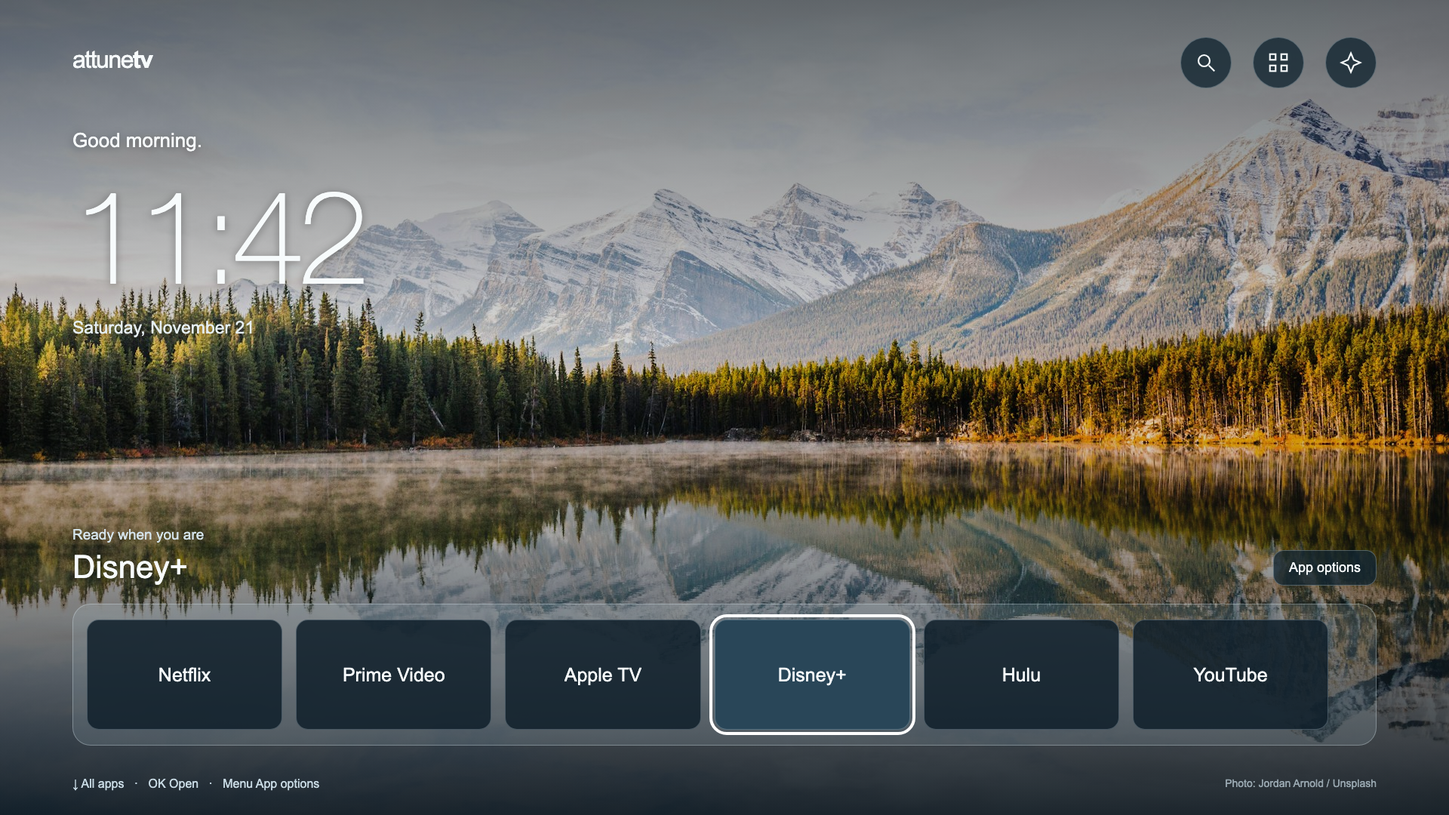
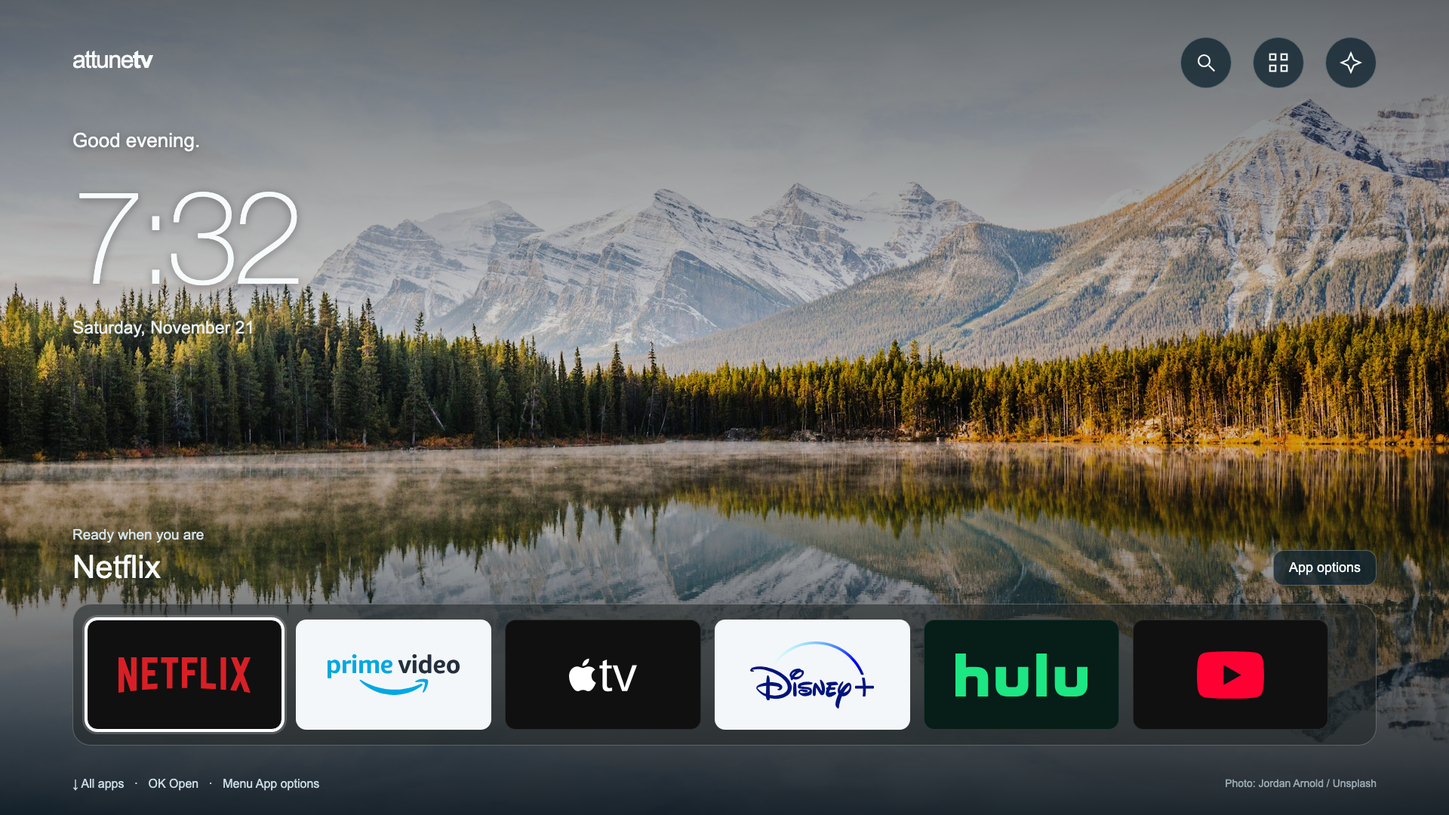
Polish Samsung app artwork and rounded tile focus

Changed region(s): [[0.0312, 0.6722, 0.9688, 0.9167], [0.0625, 0.2139, 0.25, 0.3667], [0.0938, 0.1528, 0.1562, 0.1833]]

diff --git a/samsung/web/home.css b/samsung/web/home.css
@@ -1,1 +1,40 @@
 *{box-sizing:border-box}html,body{margin:0;width:100%;height:100%;overflow:hidden}body{background:#142a35;color:#f7fbfc;font:24px Arial,sans-serif}[hidden]{display:none!important}.landscape,.shade{position:fixed;inset:0;top:0;left:0;width:100%;height:100%;pointer-events:none}.landscape{background:url('assets/alpine-lake.jpg') center center/cover no-repeat}.shade{background:linear-gradient(180deg,rgba(6,18,27,.62),rgba(6,18,27,.08) 48%,rgba(6,18,27,.9))}button,a,input{-webkit-tap-highlight-color:transparent}button,a{font:inherit;color:inherit}button,a.round{border:1px solid rgba(232,247,255,.28);border-radius:14px;background:rgba(17,36,47,.78);padding:16px 25px;text-decoration:none;cursor:pointer}button:disabled{opacity:.4;cursor:default}button:focus,a:focus,input:focus{outline:4px solid #fff;outline-offset:5px}button:focus,a:focus{background:#35566b}#home{position:relative;height:100%;padding:4.5vh 5vw 3vh}header{display:flex;justify-content:space-between;align-items:flex-start}.brand{font-size:32px;letter-spacing:-1.5px;padding-top:12px}.brand span{font-weight:bold}nav{display:flex}nav .round{position:relative;display:flex;align-items:center;justify-content:center;border-radius:50%;width:68px;height:68px;margin-left:28px;padding:18px}svg{width:30px;height:30px;fill:none;stroke:currentColor;stroke-width:1.7}.round span{position:absolute;top:82px;left:-20px;right:-20px;text-align:center;font-size:18px;opacity:0}.round:focus span,.round:hover span{opacity:1}.welcome{margin-top:5vh;text-shadow:0 2px 12px rgba(0,0,0,.35)}.welcome p{margin:0;font-size:26px}#clock{font-family:'Helvetica Neue',Arial,sans-serif;font-weight:200;font-size:9vw;line-height:1.2;letter-spacing:-.5vw;margin:6px 0}#date{font-size:23px;color:#e5eef2}.favorites{position:absolute;bottom:8.5vh;left:5vw;right:5vw}.selection{display:flex;align-items:flex-end;justify-content:space-between;margin:0 0 24px}.selection p{font-size:19px;color:#d4e3ea;margin:0 0 8px}.selection h1{font-size:42px;font-weight:400;margin:0;max-width:65vw;white-space:nowrap;overflow:hidden;text-overflow:ellipsis}.quiet{font-size:18px;padding:12px 20px}.dock{display:flex;overflow-x:auto;overflow-y:hidden;padding:20px 18px;background:rgba(182,208,220,.16);border:1px solid rgba(235,247,255,.3);border-radius:24px;min-height:145px}.tile{flex:0 0 13.5vw;width:13.5vw;height:7.59375vw;position:relative;padding:12px;margin-right:18px;border-radius:16px;background:rgba(15,30,42,.86);border:1px solid rgba(220,238,247,.25);overflow:hidden;display:flex;flex-direction:column;align-items:center;justify-content:center}.tile:last-child{margin-right:0}.tile:focus{outline:4px solid white;outline-offset:3px;background:#294658}.tile img{width:100%;height:100%;object-fit:contain;display:block;border-radius:8px}.tile .fallback{font-size:25px;text-align:center;line-height:1.2;max-width:100%;overflow:hidden;text-overflow:ellipsis}.tile .pin{position:absolute;right:9px;top:6px;color:#f7dc9b;font-size:18px;text-shadow:0 1px 5px #000}.tile:focus .pin{color:white}.dock:empty{display:none}footer{position:absolute;bottom:3vh;left:5vw;right:5vw;display:flex;justify-content:space-between;font-size:16px;color:#c8dae4}.credit{opacity:.7;font-size:14px}#empty{padding:20px 26px;background:rgba(15,30,42,.82);border-radius:20px}#empty p{margin:0 0 12px;max-width:65ch;font-size:23px}#retry{font-size:20px}.panel{position:fixed;top:0;left:0;width:100%;height:100%;padding:5vh 5vw;background:rgba(9,23,35,.97)}.panel-head{display:flex;justify-content:space-between;align-items:center;margin-bottom:22px}h2{font-weight:400;font-size:40px;margin:0 0 18px}.panel-head h2{margin:0}.panel-head button{font-size:20px}.search-label{display:block;font-size:18px;margin-bottom:8px}input{font:inherit;color:#fff;background:#203c50;border:1px solid #7b97a9;border-radius:12px;padding:14px 18px;width:100%}input::placeholder{color:#b5c8d3}#apps-status{font-size:18px;color:#becfd9;margin:16px 0}.grid{display:flex;align-content:flex-start;flex-wrap:wrap;overflow-y:auto;height:57vh;padding:12px}.grid .tile{width:calc(20% - 20px);flex-basis:calc(20% - 20px);height:9.3vw;margin:0 20px 26px 0}.grid .tile .fallback{font-size:23px}.panel-hint{font-size:17px;color:#a8c1d0}.scrim{position:fixed;top:0;left:0;width:100%;height:100%;background:rgba(2,12,22,.8);display:flex;align-items:center;justify-content:center}.glass-menu{width:580px;max-height:90vh;overflow:auto;padding:32px;background:#142b3d;border:1px solid #7697aa;border-radius:24px;box-shadow:0 18px 55px rgba(0,0,0,.3)}.glass-menu h2{font-size:32px;overflow-wrap:break-word}.glass-menu p{font-size:22px;line-height:1.5;color:#cfdee6}.glass-menu button{display:block;width:100%;text-align:left;margin:14px 0;padding:15px 22px;background:#203d51}.glass-menu button:focus{background:#41667d}#notice{position:fixed;bottom:3vh;left:5vw;right:5vw;border:1px solid #b8d3e4;border-radius:12px;background:#1b3548;padding:18px 26px;font-size:22px;z-index:5}@media(max-width:1100px){body{font-size:18px}.brand{font-size:25px}nav .round{width:50px;height:50px;padding:12px;margin-left:22px}.round span{top:62px;font-size:14px}.welcome{margin-top:4vh}.welcome p{font-size:21px}#date{font-size:18px}.selection h1{font-size:30px}.selection{margin-bottom:16px}.selection p,.quiet{font-size:15px}.dock{min-height:90px;padding:14px}.tile{margin-right:14px;padding:9px}.tile .fallback{font-size:17px}.grid .tile .fallback{font-size:17px}footer,.credit{font-size:12px}.panel{padding:4vh 5vw}.panel-head{margin-bottom:12px}h2{font-size:30px}.panel-head button{font-size:16px}.search-label{font-size:14px}input{padding:10px 14px}#apps-status{margin:10px 0;font-size:14px}.grid{height:53vh}.panel-hint{font-size:14px}}@media(max-width:600px){.welcome{margin-top:8vh}#clock{font-size:23vw}.favorites{bottom:12vh}.tile{width:42vw;flex-basis:42vw;height:24vw}.grid .tile{width:calc(50% - 20px);flex-basis:calc(50% - 20px);height:24vw}.credit{display:none}nav .round{margin-left:16px}.selection h1{max-width:55vw;font-size:25px}.selection p{font-size:13px}.quiet{max-width:110px}.brand{font-size:20px}.glass-menu{width:90%}footer{font-size:11px}.welcome p{font-size:20px}}
+
+/* Artwork pass: neutral cinema surfaces, consistent banners and rounded focus.
+   Explicit dimensions and shadow rings work on Tizen 4 (no aspect-ratio needed). */
+.tile{padding:0;border:0;background:transparent;border-radius:14px;overflow:visible;display:block;text-align:left}
+.tile:focus{outline:none;background:transparent}
+.tile-art{position:relative;display:flex;align-items:center;justify-content:center;width:100%;height:100%;background:#202124;border-radius:14px;overflow:hidden;border:1px solid rgba(255,255,255,.12)}
+.tile:focus .tile-art{box-shadow:0 0 0 3px #fff,0 0 0 6px rgba(255,255,255,.18);border-color:#fff}
+.tile .tile-art img{width:100%;height:100%;object-fit:contain;border-radius:0}
+.tile .brand-art img{width:68%;height:62%}
+.tile .native-icon img{width:100%;height:90%}
+.tile .fallback{padding:18px;color:#f5f5f5}
+.tile-caption{display:none}
+.dock{background:rgba(35,39,40,.58);border-color:rgba(255,255,255,.24)}
+.panel{background:#171819;padding:4.5vh 5vw}
+.panel:before{content:'';position:absolute;top:0;left:0;width:100%;height:100%;background:linear-gradient(rgba(18,19,20,.94),rgba(18,19,20,.98)),url('assets/alpine-lake.jpg') center/cover no-repeat;pointer-events:none}
+.panel>*{position:relative}
+.panel-head{margin-bottom:24px}.panel-head h2{font-size:42px}
+.panel button:not(.tile){background:#282b2c;border-color:#515556}
+.panel input{background:#242728;border-color:#565c5d}
+.panel input::placeholder{color:#b8bdbf}
+.grid{height:59vh;padding:12px 10px;align-content:flex-start}
+.grid .tile{width:calc(20% - 20px);flex-basis:calc(20% - 20px);height:auto;margin-bottom:26px;border-radius:14px}
+.grid .tile-art{height:8.75vw}
+.grid .tile-caption{display:block;font-size:21px;line-height:1.3;color:#c9cccd;margin:13px 2px 0;white-space:nowrap;overflow:hidden;text-overflow:ellipsis}
+.grid .tile:focus .tile-caption{color:#fff}
+.tile .pin{background:#252728;color:#fff;border-radius:50%;width:24px;height:24px;text-align:center;line-height:24px;font-size:15px;text-shadow:none}
+#apps-status,.panel-hint{color:#b5babb}
+.glass-menu{background:#202324;border-color:#606667}.glass-menu button{background:#303536}
+.glass-menu button:focus{background:#4a5153}
+@media(max-width:1100px){.panel-head h2{font-size:30px}.grid{height:55vh}.grid .tile-caption{font-size:15px;margin-top:9px}.grid .tile{margin-bottom:20px}.panel-head{margin-bottom:14px}}
+@media(max-width:600px){.grid .tile{width:calc(50% - 20px);flex-basis:calc(50% - 20px)}.grid .tile-art{height:22vw}}
+/* Old Samsung WebKit shrinks percentage-width flex children inside <button>.
+   Anchor artwork/captions explicitly so every tile retains the same geometry. */
+.tile-art{position:absolute;left:0;top:0}
+.grid .tile{height:calc(10.125vw + 27px)}
+.grid .tile-art{height:calc(10.125vw - 13.5px)}
+.grid .tile-caption{position:absolute;left:0;right:0;top:calc(10.125vw - 13.5px)}
+@media(max-width:1100px){.grid .tile{height:calc(10.125vw + 18px)}}
+@media(max-width:600px){.grid .tile-art{height:calc(25.3125vw - 16.875px)}.grid .tile-caption{top:calc(25.3125vw - 16.875px)}.grid .tile{height:calc(25.3125vw + 15px)}}

diff --git a/samsung/web/home.js b/samsung/web/home.js
@@ -17,14 +17,56 @@
     text('date', now.toLocaleDateString(undefined, { weekday: 'long', month: 'long', day: 'numeric' }));
   }
   function choose(app) { selected = app; text('selected-name', app.name); text('selected-kind', favorites.indexOf(app.id) >= 0 ? 'Ready when you are' : 'On your TV'); el('options-button').disabled = false; el('grid-options').disabled = false; }
+  // Exact aliases only: artwork never changes the OS app ID used to launch.
+  var brands = {
+    'netflix': ['netflix', '#101010'],
+    'prime video': ['prime-video', '#f4f7f9'],
+    'amazon prime video': ['prime-video', '#f4f7f9'],
+    'apple tv': ['apple-tv', '#101010'],
+    'disney+': ['disney-plus', '#f4f7f9'],
+    'hulu': ['hulu', '#071d17'],
+    'youtube': ['youtube', '#101010']
+  };
+  var artworkColors = {};
+  function tint(art, icon, path) {
+    // Match a solid icon's edge instead of putting every square on a blue mat.
+    // Some Tizen firmware taints local canvases; neutral charcoal is the fallback.
+    try {
+      var color = artworkColors[path];
+      if (!color) {
+        var canvas = document.createElement('canvas'); canvas.width = canvas.height = 8;
+        var ctx = canvas.getContext('2d'); ctx.drawImage(icon, 0, 0, 8, 8);
+        var data = ctx.getImageData(0, 0, 8, 8).data, colors = [];
+        [0, 7, 56, 63].forEach(function (n) { if (data[n * 4 + 3] > 240) colors.push([data[n * 4], data[n * 4 + 1], data[n * 4 + 2]]); });
+        if (colors.length === 4 && colors.every(function (c) { return Math.abs(c[0] - colors[0][0]) + Math.abs(c[1] - colors[0][1]) + Math.abs(c[2] - colors[0][2]) < 70; })) color = 'rgb(' + colors[0].join(',') + ')';
+        else color = '#202124';
+        artworkColors[path] = color;
+      }
+      art.style.backgroundColor = color;
+    } catch (e) { /* OS icon remains visible even without color sampling. */ }
+  }
   function tile(app, inGrid) {
     var button = document.createElement('button'); button.className = 'tile'; button.setAttribute('data-app-id', app.id); button.setAttribute('aria-label', app.name);
-    var label = document.createElement('span'); label.className = 'fallback'; label.textContent = app.name; button.appendChild(label);
-    // Only local artwork from the OS inventory; no arbitrary network image requests.
-    if (app.iconPath && /^(file:\/\/|\/|wgt-private\/)/.test(app.iconPath) && app.iconPath.indexOf('//') !== 0) {
-      var icon = document.createElement('img'); icon.alt = ''; icon.onload = function () { label.hidden = true; }; icon.onerror = function () { icon.hidden = true; label.hidden = false; }; icon.src = app.iconPath; button.insertBefore(icon, label);
+    var art = document.createElement('span'); art.className = 'tile-art'; button.appendChild(art);
+    var label = document.createElement('span'); label.className = 'fallback'; label.textContent = app.name; art.appendChild(label);
+    var caption = document.createElement('span'); caption.className = 'tile-caption'; caption.textContent = app.name; caption.setAttribute('aria-hidden', 'true'); button.appendChild(caption);
+    var brand = brands[app.name.toLocaleLowerCase().trim()];
+    var nativePath = app.iconPath && /^(file:\/\/|\/|wgt-private\/)/.test(app.iconPath) && app.iconPath.indexOf('//') !== 0 ? app.iconPath : '';
+    if (brand || nativePath) {
+      var icon = document.createElement('img'); icon.alt = '';
+      icon.onload = function () {
+        label.hidden = true;
+        if (!brand) {
+          art.className = 'tile-art ' + (icon.naturalWidth / icon.naturalHeight > 1.45 ? 'native-banner' : 'native-icon');
+          tint(art, icon, nativePath);
+        }
+      };
+      icon.onerror = function () { icon.hidden = true; label.hidden = false; };
+      if (brand) { art.className = 'tile-art brand-art'; art.style.backgroundColor = brand[1]; icon.src = 'assets/logos/' + brand[0] + '.svg'; }
+      else icon.src = nativePath;
+      art.insertBefore(icon, label);
     }
-    if (inGrid && favorites.indexOf(app.id) >= 0) { var pin = document.createElement('span'); pin.className = 'pin'; pin.textContent = '★'; pin.setAttribute('aria-hidden', 'true'); button.appendChild(pin); }
+    if (inGrid && favorites.indexOf(app.id) >= 0) { var pin = document.createElement('span'); pin.className = 'pin'; pin.textContent = '★'; pin.setAttribute('aria-hidden', 'true'); art.appendChild(pin); }
     button.onfocus = function () { choose(app); if (inGrid) button.scrollIntoView({ block: 'nearest', inline: 'nearest' }); else { var dock = el('dock'); if (button.offsetLeft < dock.scrollLeft) dock.scrollLeft = button.offsetLeft; if (button.offsetLeft + button.offsetWidth > dock.scrollLeft + dock.clientWidth) dock.scrollLeft = button.offsetLeft + button.offsetWidth - dock.clientWidth + 18; } };
     button.onclick = function () { choose(app); launch(app); }; button.oncontextmenu = function (event) { event.preventDefault(); choose(app); menu(); }; return button;
   }

diff --git a/samsung/web/home.html b/samsung/web/home.html
@@ -13,7 +13,7 @@
     <section class="favorites" aria-label="Favorites"><div class="selection"><div><p id="selected-kind">Your evening starts here</p><h1 id="selected-name">Make yourself at home.</h1></div><button id="options-button" class="quiet" disabled>App options</button></div><div id="dock" class="dock"></div><div id="empty" hidden><p id="empty-copy">Finding your apps…</p><button id="retry">Try again</button></div></section>
     <footer><span>↓ All apps &nbsp; · &nbsp; OK Open &nbsp; · &nbsp; Menu App options</span><span class="credit">Photo: Jordan Arnold / Unsplash</span></footer>
   </main>
-  <section id="apps-panel" class="panel" hidden aria-label="All apps"><div class="panel-head"><h2>Your apps</h2><div><button id="grid-options" disabled>App options</button> <button id="close-apps">Back to Home</button></div></div><label class="search-label" for="app-search">Search installed apps</label><input id="app-search" type="search" placeholder="Find something to watch" autocomplete="off"><p id="apps-status" role="status"></p><div id="grid" class="grid"></div><p class="panel-hint">OK opens an app. Menu opens its options. Favorites stay on this TV.</p></section>
+  <section id="apps-panel" class="panel" hidden aria-label="All apps"><div class="panel-head"><h2>Your apps</h2><div><button id="grid-options" disabled>App options</button> <button id="close-apps">Back to Home</button></div></div><label class="search-label" for="app-search">Search installed apps</label><input id="app-search" type="search" placeholder="Search your apps" autocomplete="off"><p id="apps-status" role="status"></p><div id="grid" class="grid"></div><p class="panel-hint">OK opens an app. Menu opens its options. Favorites stay on this TV.</p></section>
   <div id="menu" class="scrim" hidden role="dialog" aria-modal="true" aria-labelledby="menu-title"><section class="glass-menu"><h2 id="menu-title">App options</h2><button id="menu-open">Open</button><button id="menu-pin">Pin to Home</button><button id="menu-left">Move left</button><button id="menu-right">Move right</button><button id="menu-close">Close</button></section></div>
   <div id="exit" class="scrim" hidden role="dialog" aria-modal="true" aria-labelledby="exit-title"><section class="glass-menu"><h2 id="exit-title">Leave AttuneTV?</h2><p>The remote’s Home button opens Samsung Smart Hub. Add AttuneTV to its Home row to come back quickly.</p><button id="stay">Stay here</button><button id="exit-confirm">Leave</button></section></div>
   <div id="notice" role="alert" hidden></div>

diff --git a/scripts/package-downloads.py b/scripts/package-downloads.py
@@ -36,7 +36,7 @@ def package(output, samsung_dist):
     samsung = {'version': version, 'applicationId': 'AttuneTV01.Companion', 'package': target.name,
                'sha256': digest(target), 'commit': info['commit'], 'serviceOrigin': ORIGIN,
                'signed': False, 'requires': 'Samsung TV certificate with your device DUID and installation permission',
-               'deviceAcceptance': 'Samsung Home 0.2.0 installation, local app inventory, photo/icon loading and grid geometry checked on QN65Q65FN; visual and per-app launch acceptance remain separately documented'}
+               'deviceAcceptance': 'Samsung Home 0.2.1 installed on QN65Q65FN; bundled dock marks, tile widths and scrolling checked on Tizen 4. User visual and per-app launch acceptance remain separate'}
     (output / 'samsung-release-info.json').write_text(json.dumps(samsung, indent=2) + '\n')
     # Inside the setup ZIP, the manifest covers bundled payloads, not the ZIP itself.
     files = ['AttuneTV.apk', target.name, 'release-info.json', 'samsung-release-info.json']

diff --git a/README.md b/README.md
@@ -88,7 +88,7 @@ Open AttuneTV to a photo, clock and your installed apps. Keep favorites in the d
 
 ![Samsung Home layout with landscape, clock, round shortcuts and favorites dock](docs/images/home-samsung-browser.png)
 
-*Browser capture with fixture app names; actual TV icon loading and layout geometry were checked separately. Samsung 0.2.0 is an in-app Home, not a system Home-button replacement. [Device checks](docs/device-checks/samsung-qn65q65fn.md).*
+*Browser capture with fixture app names; actual TV icon loading and layout geometry were checked separately. Samsung 0.2.1 is an in-app Home, not a system Home-button replacement. [Device checks](docs/device-checks/samsung-qn65q65fn.md).*
 
 ## Why AttuneTV?
 
@@ -114,7 +114,7 @@ Open AttuneTV to a photo, clock and your installed apps. Keep favorites in the d
 
 After native installation, you can shut down the setup computer. The launcher runs on the TV; the companion uses the hosted service.
 
-**Download the current preview:** [Android APK 0.5.2](https://github.com/thellis954/attunetv/releases/latest/download/AttuneTV.apk) · [Samsung 0.2.0 unsigned WGT](https://github.com/thellis954/attunetv/releases/latest/download/AttuneTV-Samsung-UNSIGNED.wgt) · [Guided setup ZIP](https://github.com/thellis954/attunetv/releases/latest/download/AttuneTV-Setup.zip). All include the shared companion flow and use the hosted service. No GitHub login or source build is needed. Samsung requires your own TV signing certificate; [choose your installation path](docs/setup.md).
+**Download the current preview:** [Android APK 0.5.3](https://github.com/thellis954/attunetv/releases/latest/download/AttuneTV.apk) · [Samsung 0.2.1 unsigned WGT](https://github.com/thellis954/attunetv/releases/latest/download/AttuneTV-Samsung-UNSIGNED.wgt) · [Guided setup ZIP](https://github.com/thellis954/attunetv/releases/latest/download/AttuneTV-Setup.zip). All include the shared companion flow and use the hosted service. No GitHub login or source build is needed. Samsung requires your own TV signing certificate; [choose your installation path](docs/setup.md).
 
 Roku, Apple TV hardware, LG webOS and non-Android Fire TV do not yet have native packages. You can explore the separate browser/phone companion regardless of what you watch, with context entered manually; this does not add a launcher or overlay to those TVs.
 
@@ -124,7 +124,7 @@ Roku, Apple TV hardware, LG webOS and non-Android Fire TV do not yet have native
 <a id="what-works-today"></a>
 
 - **Fire TV Home:** tested on Insignia NS65-UQFL26 / Fire OS 8.1.6.4. Other devices need individual checks.
-- **Samsung:** 0.1.0 installed and running on QN65Q65FN / Tizen 4.0. Actual-TV pairing-link and QR generation verified after the origin fix. Real phone approval, live answers and return-to-app behavior still need acceptance. [Device evidence](docs/device-checks/samsung-qn65q65fn.md).
+- **Samsung:** Home 0.2.1 installed on QN65Q65FN / Tizen 4.0, with bundled dock logos and a labeled app grid. Phone pairing/provider setup is user-confirmed; live AI answers and per-app launch behavior remain separate acceptance checks. [Device evidence](docs/device-checks/samsung-qn65q65fn.md).
 - **Shared chat:** pairing, context, session isolation and conversation flows have automated coverage. Test responses establish behavior, not live model quality; real provider/device acceptance remains open.
 - **Streaming overlays:** hidden in normal Fire TV builds until per-app playback, focus and dismissal checks pass. Samsung has no overlay over built-in streaming apps.
 

diff --git a/docs/samsung-install.md b/docs/samsung-install.md
@@ -4,7 +4,7 @@
 
 **What you get:** a cinematic Home inside AttuneTV with a photo, clock, installed apps, favorites, app search and an **Ask** shortcut to TV/phone chat. The phone conversation stays available while you watch through Samsung's built-in streaming apps. It does not replace Smart Hub or overlay Netflix, Prime Video or other players.
 
-**Current download: 0.2.0**, configured for the hosted companion. It is unsigned until you apply your own certificate. **Hardware checkpoint:** 0.1.0 was signed, installed and launched on a **Samsung QN65Q65FN / Tizen 4.0** on November 20, 2026. Visual quality, physical phone pairing and real AI answers are separate acceptance checks still in progress. Other Tizen models are unverified. There is no Samsung Store listing or universal one-click installer yet.
+**Current download: 0.2.1**, configured for the hosted companion. It is unsigned until you apply your own certificate. **Hardware checkpoint:** Home 0.2.1 is signed and installed on **Samsung QN65Q65FN / Tizen 4.0**. Phone pairing/provider setup is user-confirmed. Device visual acceptance, per-app foreground launch and real AI answers remain separate checks. Other Tizen models are unverified. There is no Samsung Store listing or universal one-click installer yet.
 
 **Want to try chat first?** Open the [hosted preview](https://attunetv-samsung.vercel.app/tv) on your computer and [pair your phone](ai-setup.md). Native Samsung installation below is more involved, but you only need the computer for setup and updates—not normal viewing.
 
@@ -115,15 +115,15 @@ $env:ATTUNE_SERVICE_ORIGIN = "https://attunetv-samsung.vercel.app"
 npm run build
 ```
 
-The output is `dist/AttuneTV-Samsung-0.2.0-UNSIGNED.wgt`. Building without the service origin produces a shell that cannot connect. You do not need to host a server to use the existing preview service.
+The output is `dist/AttuneTV-Samsung-0.2.1-UNSIGNED.wgt`. Building without the service origin produces a shell that cannot connect. You do not need to host a server to use the existing preview service.
 
 ## 7. Sign, install and open
 
-Copy `AttuneTV-Samsung-UNSIGNED.wgt` (or the versioned file from a source build) to a new file named **AttuneTV-Samsung-0.2.0.wgt** in the same folder. This copy remains unsigned until the next command succeeds. From `samsung/` after a source build (or adjust `dist` to your extracted artifact folder):
+Copy `AttuneTV-Samsung-UNSIGNED.wgt` (or the versioned file from a source build) to a new file named **AttuneTV-Samsung-0.2.1.wgt** in the same folder. This copy remains unsigned until the next command succeeds. From `samsung/` after a source build (or adjust `dist` to your extracted artifact folder):
 
 ```sh
-tizen package -t wgt -s AttuneTV-Samsung -- dist/AttuneTV-Samsung-0.2.0.wgt
-tizen install -n AttuneTV-Samsung-0.2.0.wgt -t YOUR_DEVICE_NAME -- dist
+tizen package -t wgt -s AttuneTV-Samsung -- dist/AttuneTV-Samsung-0.2.1.wgt
+tizen install -n AttuneTV-Samsung-0.2.1.wgt -t YOUR_DEVICE_NAME -- dist
 tizen run -p AttuneTV01.Companion -t YOUR_DEVICE_NAME
 ```
 

diff --git a/docs/device-checks/samsung-qn65q65fn.md b/docs/device-checks/samsung-qn65q65fn.md
@@ -36,3 +36,11 @@ After installation, the user confirmed the actual companion screen and reported 
 Installed a device-signed update with the same author profile and no uninstall. Public app status reports 0.2.0 running/visible. Remote inspection of the actual Tizen4 runtime confirmed Home at 1920×1080, 48 filtered installed apps, six loaded dock icons, and a loaded 1920×1080 bundled photo. The final grid row scrolls fully into view. Refined six-tile dock ends within the 5% side margins, with no document overflow. The existing pairing credential remains present. Tom separately confirmed pairing and provider setup were already working; this is user-reported, not an agent-run paid inference check.
 
 Seven browser tests pass, including existing companion pairing/context flows, remote grid navigation, persistent pin/reorder, service filtering and unavailable/failed API behavior. Browser screenshot uses fixture app names, not an actual-TV screenshot. CDP screenshot capture timed out on this TV; full visual acceptance remains open. A Prime Video launch request was sent; Samsung's status endpoint did not confirm the target foreground state, so per-service launch success is not claimed yet. Samsung remote Home remains Smart Hub. No system settings were changed.
+
+## November 21, 2026 — 0.2.1 artwork correction
+
+User photos of 0.2.0 showed square app icons with excessive mats, generic Samsung placeholder symbols for Prime Video/YouTube, and a strongly blue grid. These supersede the earlier icon-loaded check as visual acceptance evidence: a loaded image was not necessarily the correct service artwork.
+
+0.2.1 was signed with the existing certificate and installed without uninstalling. It bundles six service marks, adds grid captions, fits native icons without cropping, and replaces blue mats with neutral/color-matched surfaces. Actual Tizen 4 rendering exposed shrink-to-content flex children inside buttons that desktop Chromium did not reproduce. Explicitly anchored artwork fixes the tile width issue.
+
+ES5 parsing, 23 local service tests (one PostgreSQL test deferred to CI), and eight browser tests passed. Browser screenshots remain fixture captures. Actual TV reported version0.2.1, all six bundled marks loaded, and preserved pairing/favorites storage. No paid inference, streaming playback, or Home-key remapping was tested. No TV settings were changed.

diff --git a/samsung/DESIGN.md b/samsung/DESIGN.md
@@ -25,3 +25,9 @@ Opening AttuneTV now starts at Home. The existing companion remains one click aw
 Home uses the Insignia visual direction: a landscape fills the screen, a large thin clock sits top-left, three round shortcuts sit top-right, and the selected app title leads into a translucent favorites dock near the bottom. Color tokens: night #142a35, glass #203d51, mist #cfdee6, white #f7fbfc, warm pin #f7dc9b. Helvetica Neue/Arial gives the clock a quiet light weight where available; Arial keeps app names readable on Tizen 4. Six 16:9 tiles fit within the 5% safe margin. Longer docks scroll. No per-tile drop shadows, no automatic animation, no invented streaming metadata.
 
 The bundled, credited landscape works offline. Inventory and favorites stay local. All apps uses a dark high-contrast surface and five-column grid; white focus outlines remain inside scroll padding. Remote Back closes a menu/grid before offering exit. Pin/reorder controls are available through Menu and the visible App options button. OS-internal services are filtered, duplicate names consolidated and unavailable icons fall back to readable names.
+
+## Samsung artwork correction (0.2.1)
+
+Real device photos exposed tiny square icons, Samsung placeholder symbols for Prime Video/YouTube, and excessive blue mats. Match the Insignia principle: recognizable widescreen artwork leads. Bundle six recognizable service marks for installed apps only; preserve actual OS launch IDs. Use exact aliases, no substring guesses. Native icons for other apps stay uncropped, with an edge-matched mat when local canvas reads are permitted; neutral charcoal otherwise. Persistent grid captions identify unfamiliar marks. Round the white focus ring using a shadow on the rounded artwork surface, not old Chromium's square outline.
+
+Tokens: cinema #171819, charcoal #202124, control #282b2c, secondary #c9cccd, white #ffffff. Brand artwork supplies color. Retain Arial for remote legibility. Five columns and safe margins remain; app names sit below each 16:9 image. The mountain is only faintly visible behind the app grid, with no blue wash or per-tile drop shadow. This follows the existing product's cinematic direction, not a separate visual theme.

diff --git a/docs/setup.md b/docs/setup.md
@@ -22,10 +22,10 @@ The Android installer verifies the bundled checksum and installed version, prese
 
 ## Pick the experience
 
-- **“I want a better Home screen.”** Start with the [Fire TV APK](install.md). The current public release is **0.5.2**; no AI account is needed.
+- **“I want a better Home screen.”** Start with the [Fire TV APK](install.md). The current public release is **0.5.3**; no AI account is needed.
 - **“I want to ask about what I'm watching.”** Try the [hosted companion](https://attunetv-samsung.vercel.app/tv), choose Pair phone, and follow [AI setup](ai-setup.md). Enter the title, episode and progress yourself. This is not automatic scene recognition.
 - **“I want it installed on my Samsung.”** Follow the [Samsung guide](samsung-install.md). Version **0.1.0** installed and launched on our test TV; the UI is visible and on-TV pairing-link/QR generation is verified; phone approval and real-provider acceptance are still being checked. The current package opens to an in-app Home with favorites, installed apps, app search and Ask. The remote Home button still opens Samsung Smart Hub. It is not a Samsung Store download.
-- **“I want to install or update the phone companion.”** [Download the setup ZIP](https://github.com/thellis954/attunetv/releases/latest/download/AttuneTV-Setup.zip) and open START-HERE.txt. It includes the signed Android **0.5.2 APK**, configured Samsung **0.2.0 WGT** (unsigned), guided Android installers and all setup guides. No GitHub sign-in or source build is required. Samsung still requires your own certificate.
+- **“I want to install or update the phone companion.”** [Download the setup ZIP](https://github.com/thellis954/attunetv/releases/latest/download/AttuneTV-Setup.zip) and open START-HERE.txt. It includes the signed Android **0.5.3 APK**, configured Samsung **0.2.1 WGT** (unsigned), guided Android installers and all setup guides. No GitHub sign-in or source build is required. Samsung still requires your own certificate.
 
 ## What you need—and what you don't
 

diff --git a/docs/install.md b/docs/install.md
@@ -8,7 +8,7 @@ You do not need to write code or install Android Studio. This guide uses a small
 
 ## Before you start
 
-**Current public preview: 0.5.2.** It includes **Ask → Pair phone**, the shared TV/phone conversation and guided API-key setup. You do not need a development build. Streaming overlays remain disabled pending per-app verification.
+**Current public preview: 0.5.3.** It includes **Ask → Pair phone**, the shared TV/phone conversation and guided API-key setup. You do not need a development build. Streaming overlays remain disabled pending per-app verification.
 
 **Easier install/update:** [download the complete setup ZIP](https://github.com/thellis954/attunetv/releases/latest/download/AttuneTV-Setup.zip), extract it, and open **START-HERE.txt**. Mac/Linux and Windows helpers check the APK checksum, wait for TV debugging approval, install without erasing data, verify the installed version and open AttuneTV. They do not change TV settings; optional Home redirection is still Step 4 below. You only need Google Platform-Tools, not Android Studio. The manual path follows.
 
@@ -178,7 +178,7 @@ Paste an iCal/ICS subscription link into phone setup, one per line. Use your cal
 
 </details>
 
-**Done.** Close the terminal and shut down the computer if you like. The home screen runs on the TV. For optional chat, see [Ask with AttuneTV](../README.md#meet-ask-with-attunetv). The public 0.5.2 APK includes **Ask → Pair phone**. Follow [AI setup](ai-setup.md) to connect from your phone.
+**Done.** Close the terminal and shut down the computer if you like. The home screen runs on the TV. For optional chat, see [Ask with AttuneTV](../README.md#meet-ask-with-attunetv). The public 0.5.3 APK includes **Ask → Pair phone**. Follow [AI setup](ai-setup.md) to connect from your phone.
 
 ## Updating
 

diff --git a/docs/android-tv-install.md b/docs/android-tv-install.md
@@ -8,7 +8,7 @@ For an easier first look at chat, use the [hosted companion](https://attunetv-sa
 
 ## Install the APK
 
-1. Download the [public APK](https://github.com/thellis954/attunetv/releases/latest/download/AttuneTV.apk) and [Google's Platform-Tools](https://developer.android.com/tools/releases/platform-tools). The public 0.5.2 APK includes shared API-key chat. The [setup ZIP](https://github.com/thellis954/attunetv/releases/latest/download/AttuneTV-Setup.zip) includes the same APK and guided installers; complete any wireless-debugging pairing first.
+1. Download the [public APK](https://github.com/thellis954/attunetv/releases/latest/download/AttuneTV.apk) and [Google's Platform-Tools](https://developer.android.com/tools/releases/platform-tools). The public 0.5.3 APK includes shared API-key chat. The [setup ZIP](https://github.com/thellis954/attunetv/releases/latest/download/AttuneTV-Setup.zip) includes the same APK and guided installers; complete any wireless-debugging pairing first.
 2. Extract Platform-Tools and put `AttuneTV.apk` in that folder. Open Terminal/PowerShell there; the [Fire TV guide](install.md#3-connect-and-install) explains how on each computer OS.
 3. On the TV, find **Settings → System / Device Preferences → About**, then select the OS build entry repeatedly to enable Developer Options. Labels vary by manufacturer.
 4. Enable the debugging method your TV provides. If it offers **Wireless debugging → Pair using pairing code**, use the address and pairing port displayed there. The later connection port can be different. If it exposes network ADB on port 5555, use that address instead. Do not assume every device supports the same method. Follow [Google's current connection instructions](https://developer.android.com/tools/adb#connect-to-a-device-over-wi-fi).

diff --git a/samsung/web/assets/logos/CREDITS.md b/samsung/web/assets/logos/CREDITS.md
@@ -1,0 +1,13 @@
+# Installed-app identification artwork
+
+These marks identify apps already present in the TV inventory. They do not add apps, change launch IDs, imply affiliation, or indicate playback integration. Files are bundled offline; no logo CDN receives viewing/app requests. Trademarks remain with their owners.
+
+Retrieved November 21, 2026:
+
+- `netflix.svg`: Netflix wordmark, unmodified SVG from https://commons.wikimedia.org/wiki/File:Netflix_2015_logo.svg (source Netflix; Commons marks PD-textlogo).
+- `prime-video.svg`: Amazon's historical Prime Video wordmark, unmodified SVG from https://commons.wikimedia.org/wiki/File:Amazon_Prime_Video_logo.svg (Commons marks PD-textlogo).
+- `hulu.svg`: Hulu wordmark, unmodified SVG from https://commons.wikimedia.org/wiki/File:Hulu_logo_(2018).svg (source Hulu press assets; Commons marks PD-textlogo).
+- `disney-plus.svg`: Disney+ mark, unmodified SVG from https://commons.wikimedia.org/wiki/File:Disney%2B_logo.svg .
+- `apple-tv.svg`, `youtube.svg`: Simple Icons 16.38.0, https://github.com/simple-icons/simple-icons/tree/16.38.0/icons . Explicit white/red fill added; paths unchanged. Project license: CC0-1.0; trademark and individual brand restrictions remain. https://github.com/simple-icons/simple-icons/blob/16.38.0/LICENSE.md and https://github.com/simple-icons/simple-icons/blob/16.38.0/DISCLAIMER.md .
+
+Other icons are read from installed app resources on the user's TV and are not redistributed in this package. Some OS-supplied icons contain baked-in borders or padding that cannot be removed without cropping the artwork.
